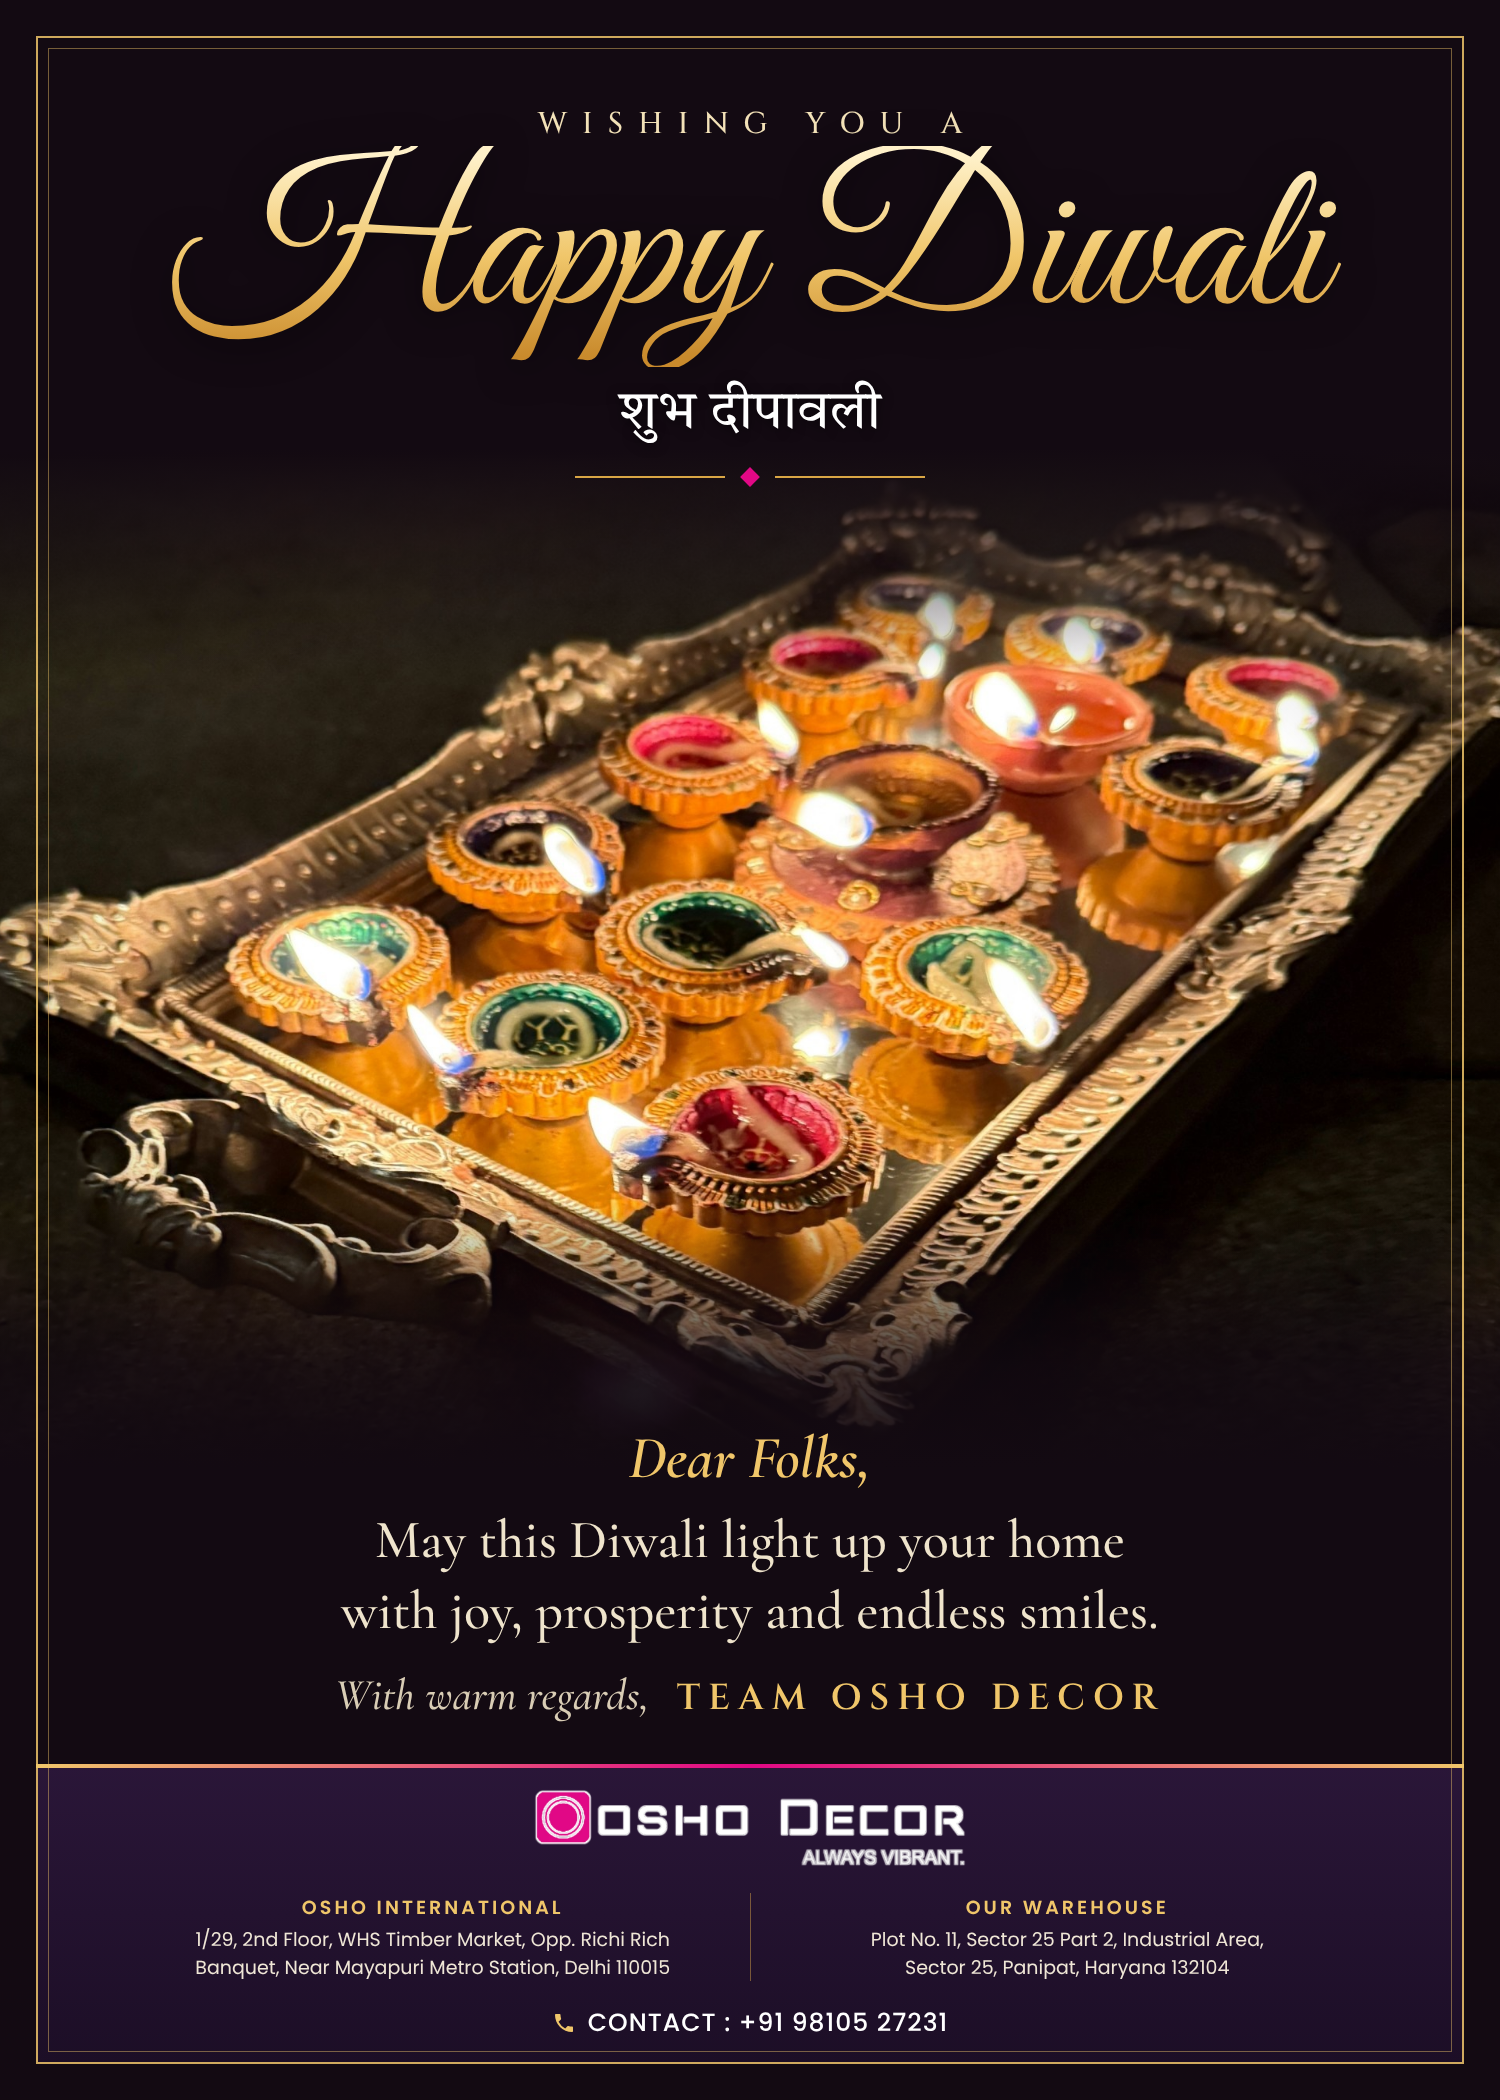
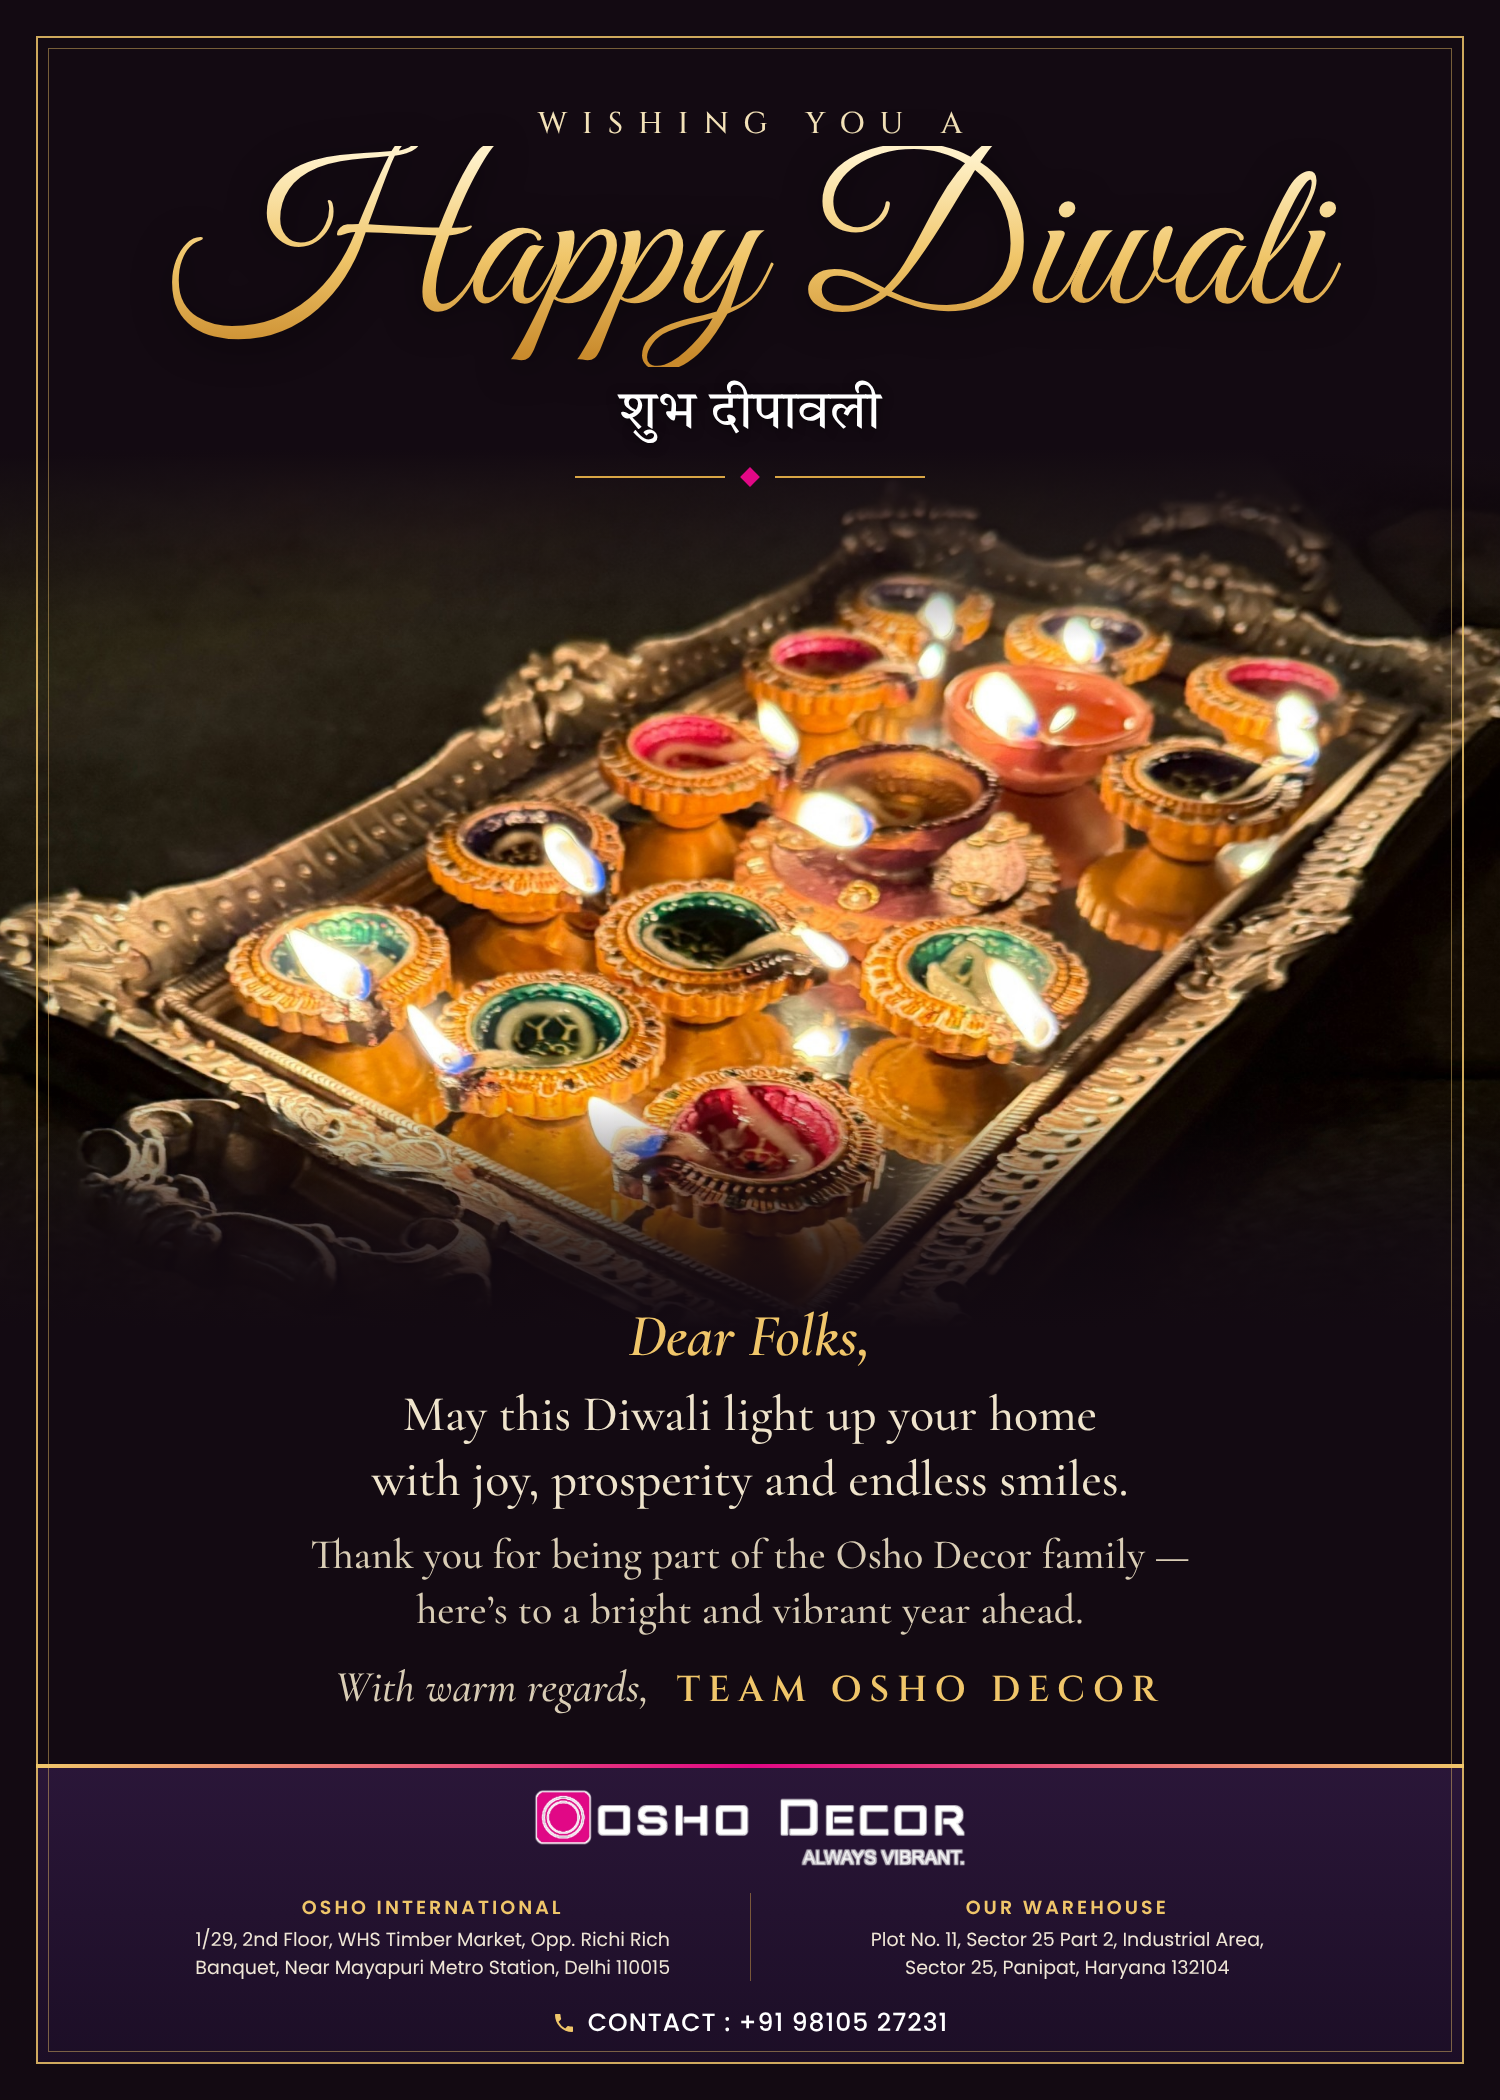
Diwali card 4: add a thank-you line to the message
Claude-Session: https://claude.ai/code/session_0139BuMiDbbgguFwkEm73kW5

diff --git a/festival-posts/diwali-card-4.html b/festival-posts/diwali-card-4.html
@@ -23,7 +23,7 @@ body{background:#777}
 .card{position:relative;width:1500px;height:2100px;overflow:hidden;font-family:Poppins;background:var(--night);color:var(--ivory)}
 
 /* photo: full-width crop under the greeting; tray centred on the card axis */
-.photo{position:absolute;left:0;top:448px;width:1500px;height:1020px;overflow:hidden}
+.photo{position:absolute;left:0;top:448px;width:1500px;height:880px;overflow:hidden}
 .photo img{position:absolute;left:-60px;top:0;width:1560px;height:1020px}
 .photo:after{content:"";position:absolute;inset:0;
   background:
@@ -48,7 +48,8 @@ body{background:#777}
 
 .letter{font-family:Corm;color:#EFE4CC;padding:0 120px}
 .letter .dear{font-style:italic;font-weight:600;font-size:60px;color:var(--gold-l);margin-bottom:10px}
-.letter p{font-weight:500;font-size:54px;line-height:1.32}
+.letter p{font-weight:500;font-size:50px;line-height:1.3}
+.letter p.thanks{font-size:42px;color:#D9CDB5;margin-top:16px}
 .letter .regards{font-style:italic;font-size:44px;margin-top:22px;color:#D9CDB5}
 .letter .regards span{font-family:Cinzel;font-style:normal;font-weight:600;font-size:36px;letter-spacing:.22em;color:var(--gold-l)}
 
@@ -76,6 +77,7 @@ body{background:#777}
   <div class="layer letter" id="msg">
     <div class="dear">Dear Folks,</div>
     <p>May this Diwali light up your home<br>with joy, prosperity and endless smiles.</p>
+    <p class="thanks">Thank you for being part of the Osho Decor family &mdash;<br>here&rsquo;s to a bright and vibrant year ahead.</p>
     <div class="regards">With warm regards, <span>&nbsp;TEAM OSHO DECOR</span></div>
   </div>
 
@@ -94,7 +96,7 @@ body{background:#777}
 /* Even spacing below the photo: equal gaps photo-fade -> divider -> message -> footer band */
 const H = 2100;
 Promise.all([document.fonts.ready, new Promise(r => { const i = document.querySelector('.photo img'); i.complete ? r() : i.onload = r; })]).then(() => {
-  const top = 1380, bottom = H - 36 - 300;   // photo fade end, band top
+  const top = 1250, bottom = H - 36 - 300;   // photo fade end, band top
   const blocks = [document.getElementById('msg')];
   const hts = blocks.map(b => b.getBoundingClientRect().height);
   const gap = (bottom - top - hts.reduce((a, b) => a + b, 0)) / (blocks.length + 1);
